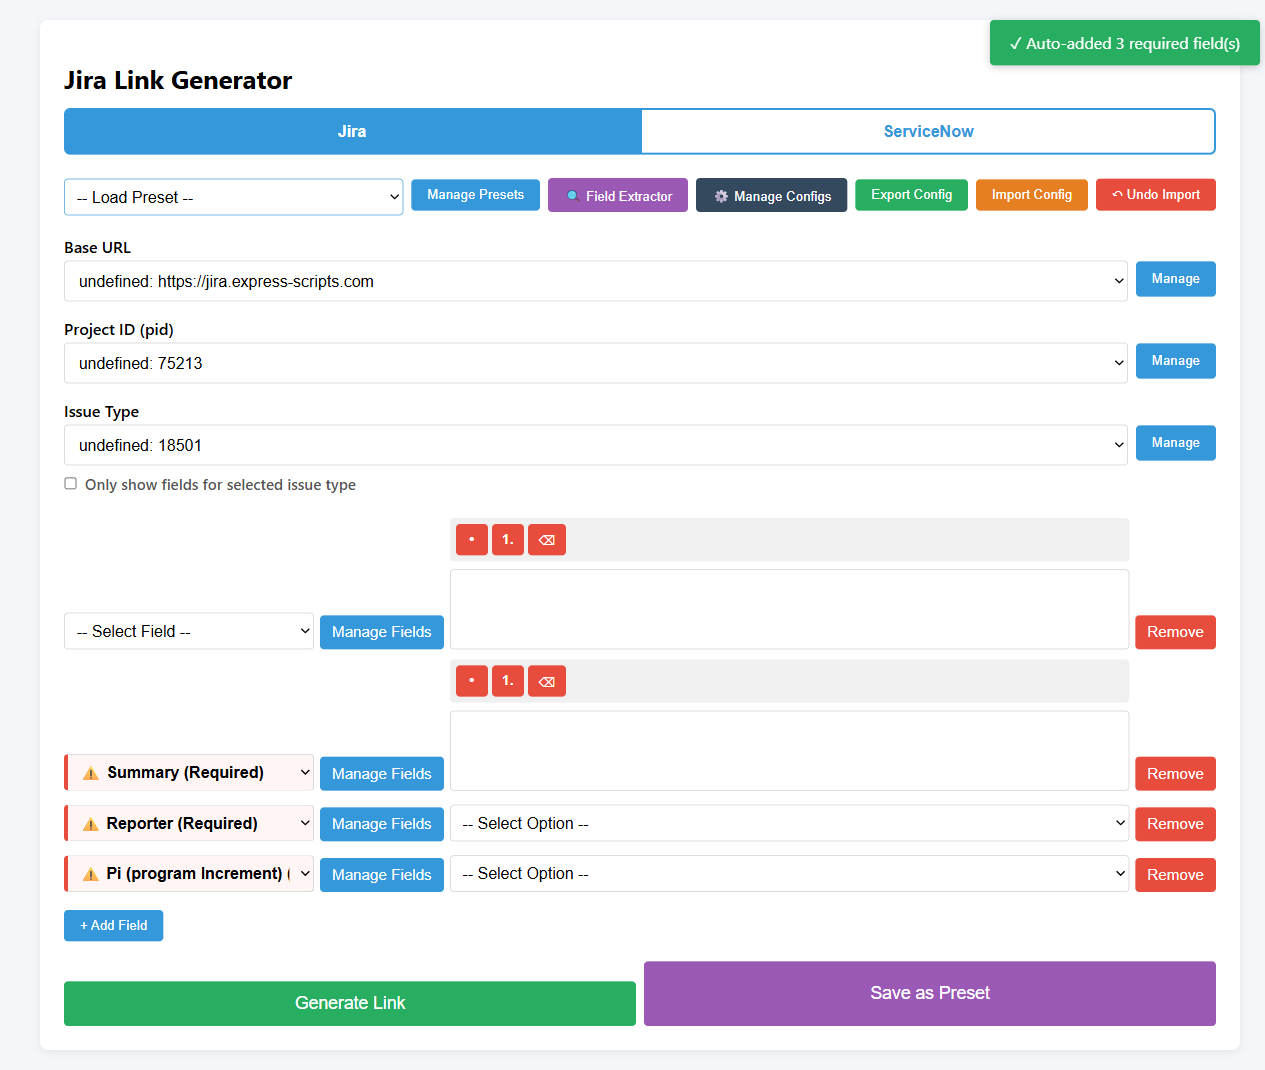
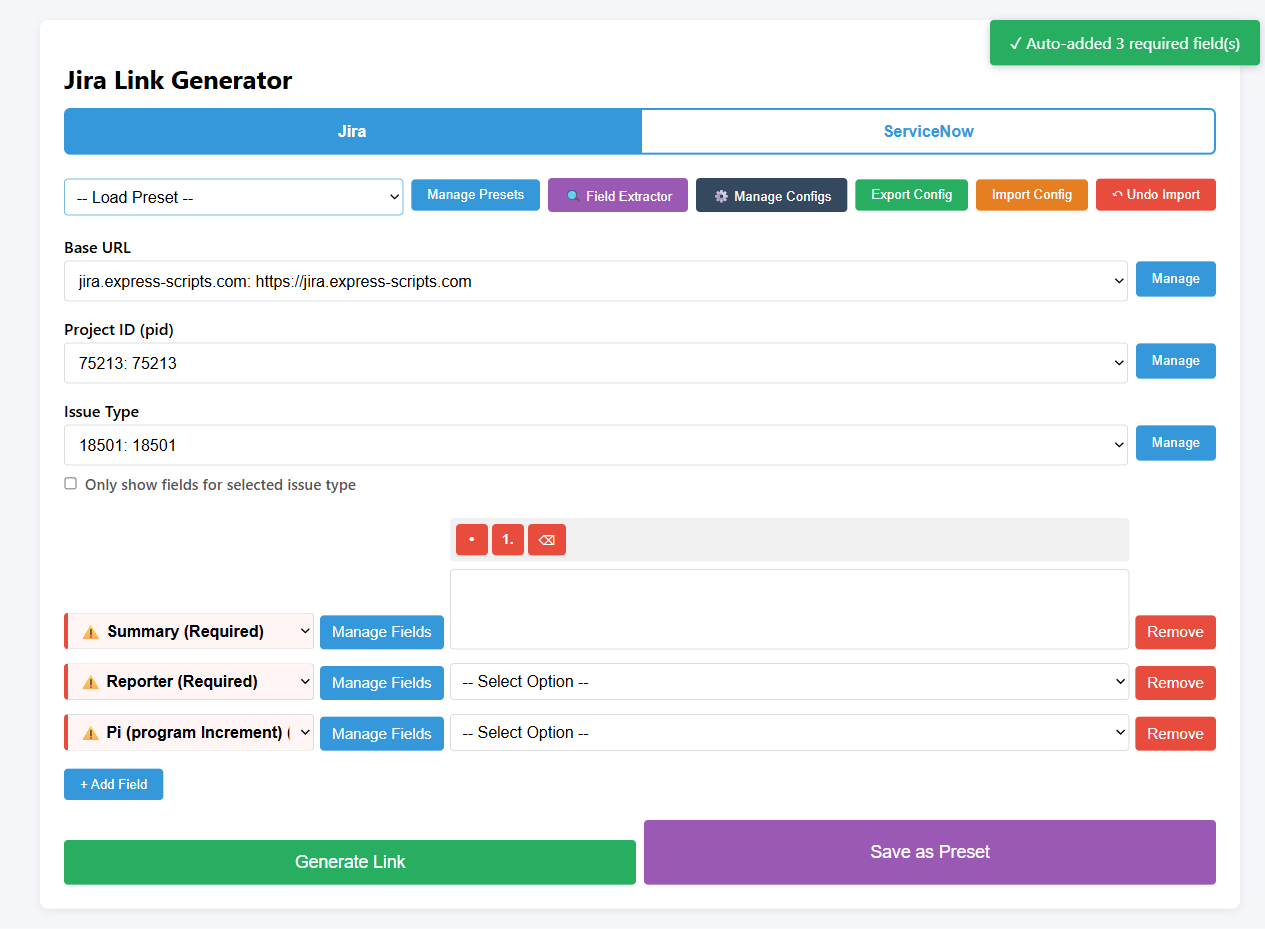
v0.8.2 - Remove empty field rows on auto-populate
Fixed issue where an empty field row remained at the top after
auto-populating required fields.

Problem:
- App starts with 1 empty field row on page load
- When auto-populate runs, it adds required fields
- Empty row stayed at top, user had to manually remove it

Solution:
- Track empty field rows (no field selected) during auto-populate
- After adding required fields, remove all empty rows
- Only removes empty rows if at least one field was auto-added

Result:
- Clean field list showing only auto-populated required fields
- User can still click '+ Add Field' to add more manually

Testing:
- Test shows 3 field rows (3 required) instead of 4 (1 empty + 3 required)
- Console log: 'Removing 1 empty field row(s)'
- Screenshot confirms clean interface

Closes #12

diff --git a/link-generator.html b/link-generator.html
@@ -1111,12 +1111,16 @@
         return;
       }
       
-      // Get currently added field IDs
+      // Get currently added field IDs and remove empty field rows
       const existingFieldIds = new Set();
+      const emptyRows = [];
       document.querySelectorAll('.field-row').forEach(row => {
         const select = row.querySelector('.field-select');
         if (select && select.value) {
           existingFieldIds.add(select.value);
+        } else if (select && !select.value) {
+          // Track empty rows to remove after auto-populate
+          emptyRows.push(row);
         }
       });
       
@@ -1146,6 +1150,12 @@
           }
         }
       });
+      
+      // Remove empty field rows after auto-populating
+      if (addedCount > 0 && emptyRows.length > 0) {
+        console.log('Removing ' + emptyRows.length + ' empty field row(s)');
+        emptyRows.forEach(row => row.remove());
+      }
       
       // Show notification if fields were added
       if (addedCount > 0) {
